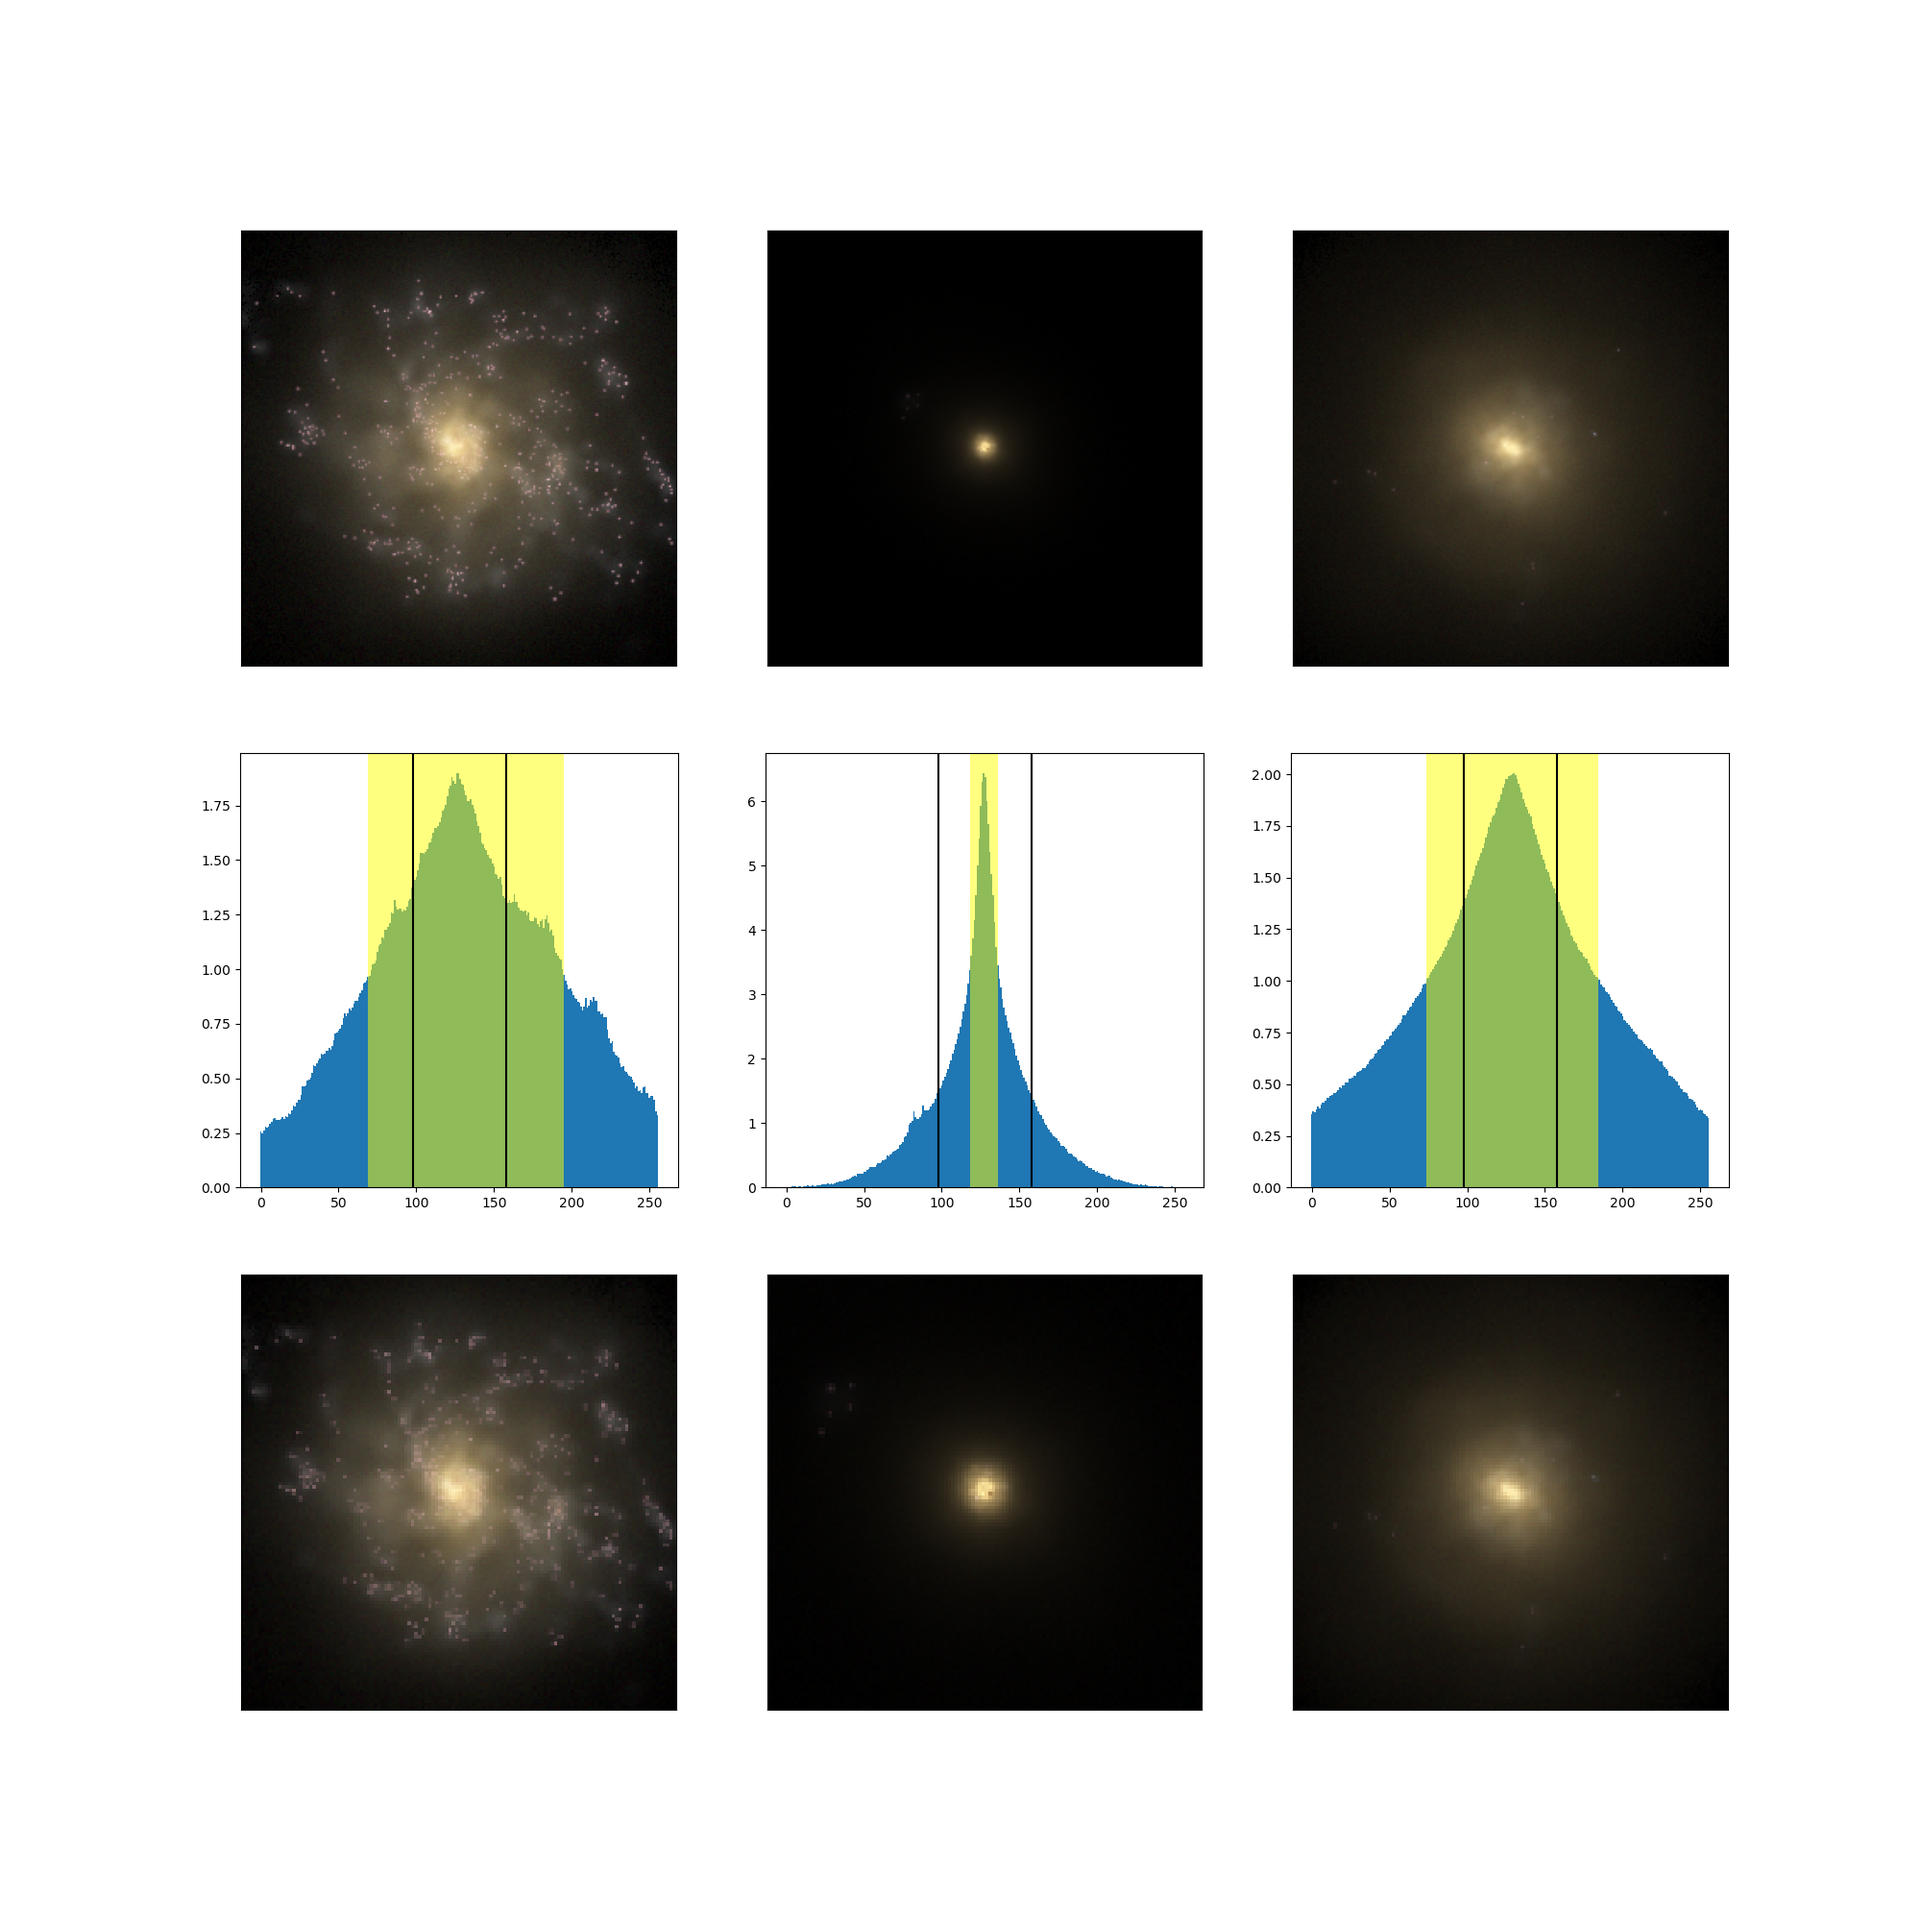
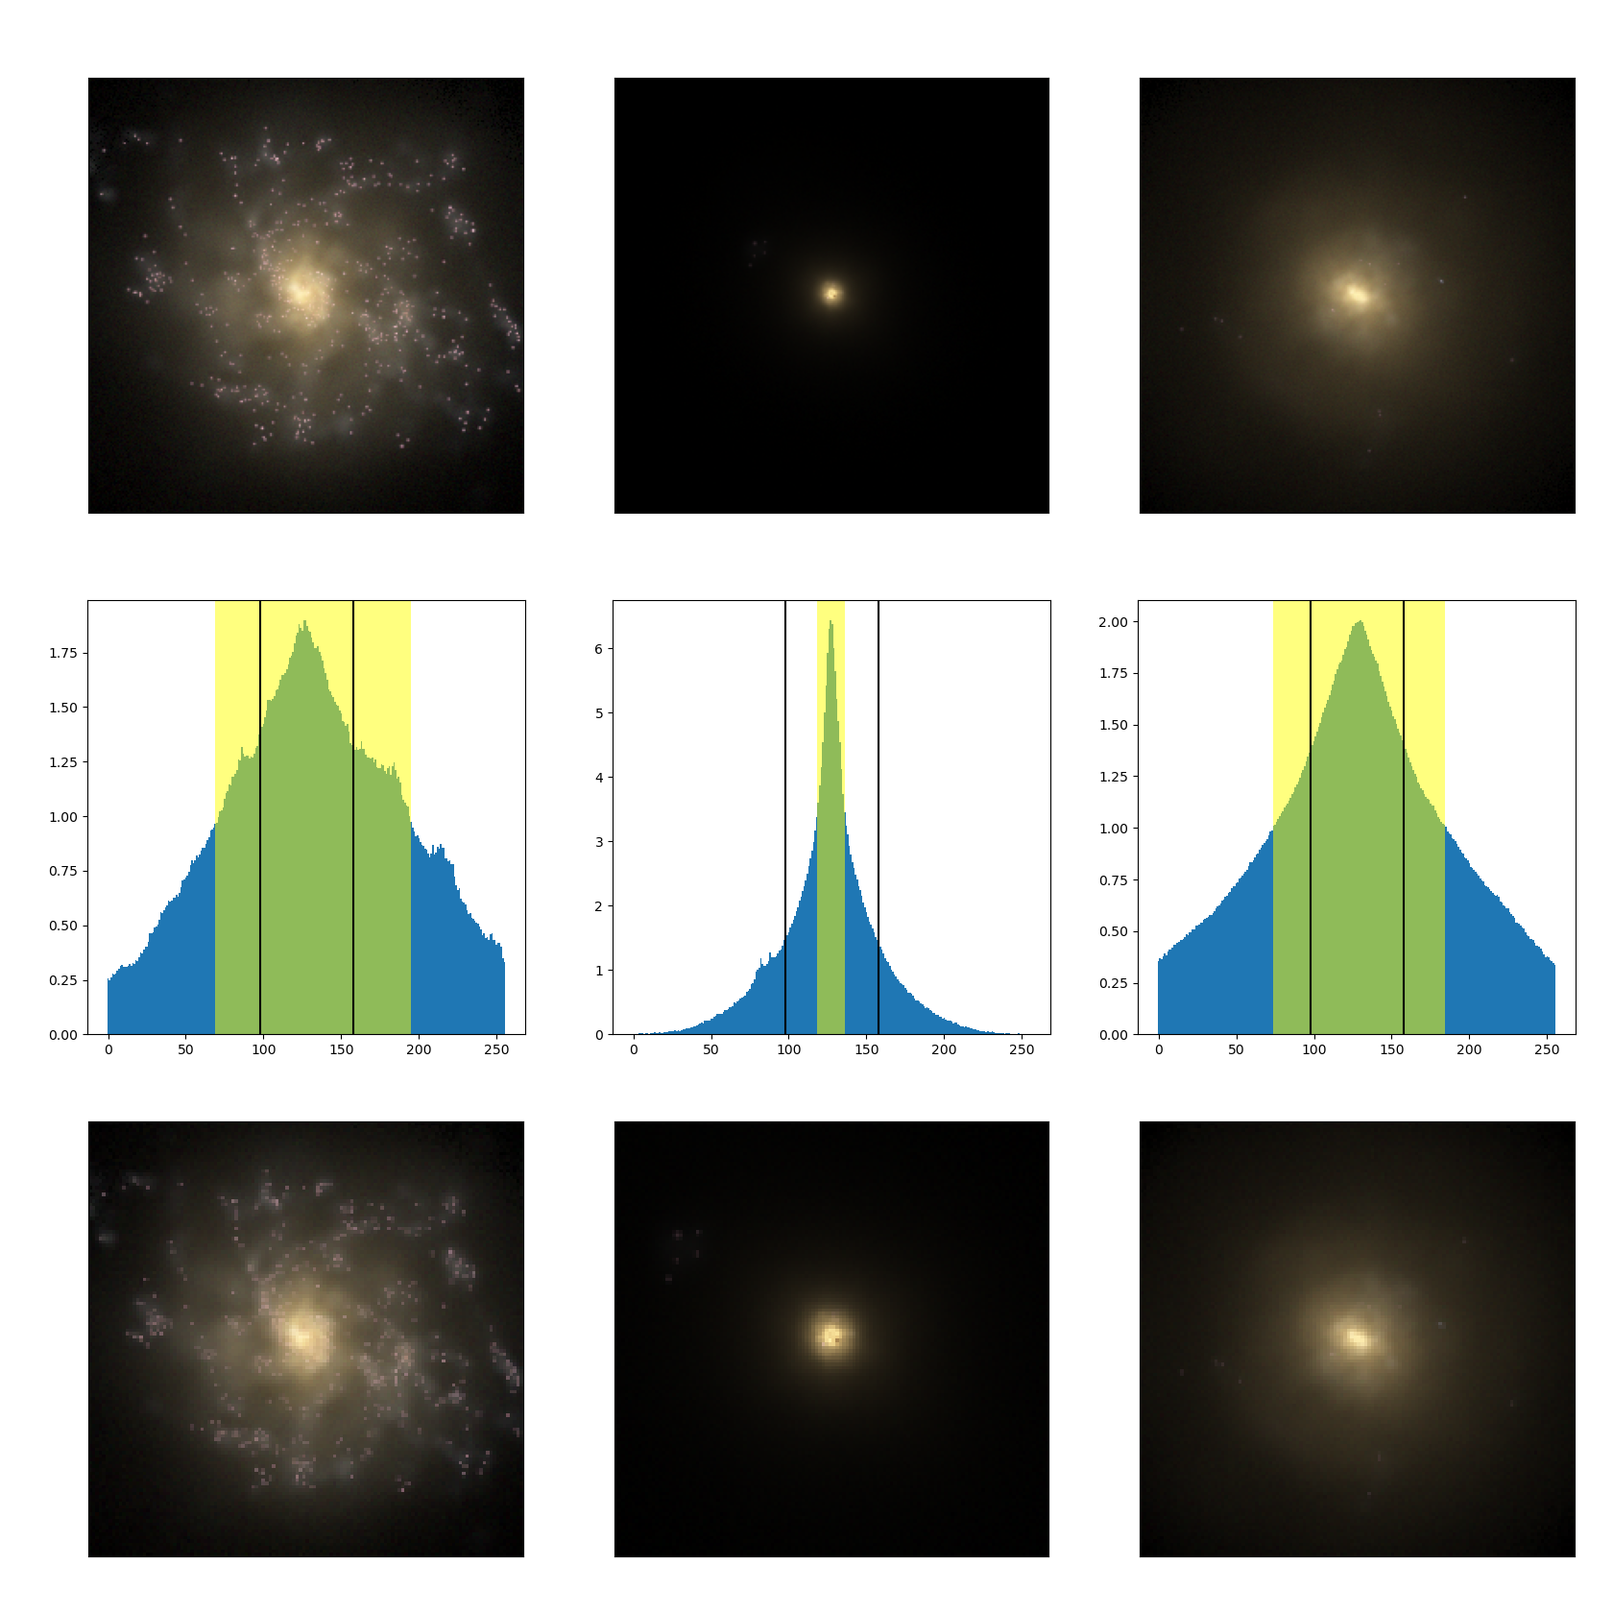
Code

diff --git a/original_images.py b/original_images.py
@@ -14,7 +14,7 @@ import cv2
 encoding_dim = 32
 
 # set the number of clusters
-n_clusters = 4
+n_clusters = 2
 
 
 # load the extracted features
@@ -44,11 +44,16 @@ def center_crop(img, dim):
 
 
 
+def half_max_range(image):
 
-def resize_image(image, cutoff,):
+    mean_intensity = image.mean()
 
     intensity_x = image.mean(axis=2).mean(axis=0)
     intensity_y = image.mean(axis=2).mean(axis=1)
+
+    half_max_intensity_x = np.max(intensity_x/mean_intensity) / 2
+    half_max_intensity_y = np.max(intensity_y/mean_intensity) / 2
+
 
     size = len(intensity_x)
 
@@ -57,49 +62,56 @@ def resize_image(image, cutoff,):
     end_x = 255
     end_y = 255
 
-    found_start_x = 0
-    found_start_y = 0
-    found_end_x = 0
-    found_end_y = 0
+    found_start_x = False
+    found_start_y = False
+    found_end_x = False
+    found_end_y = False
 
-    for j in range(0, int(size/2)):
+    # loop through half of the image
+    for j in range(0, int(size / 2)):
 
-        if (intensity_x[j] > cutoff) and (found_start_x == 0):
-            # start_x = j
-            found_start_x = 1
+
+        # if we haven't previously found the cutoff point and are still below the cutoff, increment the pointer
+        if (found_start_x is False) and ((intensity_x[j] / mean_intensity) < half_max_intensity_x):
+            start_x += 1
         else:
-            start_x = j
+            found_start_x = True
 
-        if (intensity_x[-j] > cutoff) and (found_end_x == 0):
-            # end_x = 255 - j
-            found_end_x = 1
+        if (found_end_x is False) and ((intensity_x[-j] / mean_intensity) < half_max_intensity_x):
+            end_x -= 1
         else:
-            end_x = 255 - j
+            found_end_x = True
 
-        if (intensity_y[j] > cutoff) and (found_start_y == 0):
-            # start_y = j
-            found_start_y = 1
+        if (found_start_y is False) and ((intensity_y[j] / mean_intensity) < half_max_intensity_y):
+            start_y += 1
         else:
-            start_y = j
+            found_start_y = True
 
-        if (intensity_y[-j] > cutoff) and (found_end_y == 0):
-            # end_y = 255 - j
-            found_end_y = 1
+        if (found_end_y is False) and ((intensity_y[-j] / mean_intensity) < half_max_intensity_y):
+            end_y -= 1
         else:
-            end_y = 255 - j
+            found_end_y = True
 
-    print(start_x, end_x, start_y, end_y)
+    return start_x, end_x, start_y, end_y
 
-    # check if image is too large to crop, if no we have to scale it down to 128, 128
-    if start_x < 64 and start_y < 64 and end_x > 192 and end_y > 192:
-        print("b")
+
+
+def resize_image(image, cutoff=60):
+
+    # get the fill width half maximum (for x and y direction)
+    start_x, end_x, start_y, end_y = half_max_range(image)
+
+    # calculate the full width half maximum
+    range_x = end_x - start_x
+    range_y = end_y - start_y
+
+    # check if the majority of out image is within the cutoff range, if so, center crop, otherwise, scale image down
+    if (range_x <= cutoff) and (range_y <= cutoff):
+        image = center_crop(image, (128, 128))
+    else:
         image = cv2.resize(image, (128, 128))
 
-    # if the image isn't too large, we can do a center crop
-    else:
-        print("s")
-        image = center_crop(image, (128, 128))
-
+    # return the resized image
     return image
 
 
@@ -139,89 +151,27 @@ df["Cluster"] = clusters
 
 
 
-# # separate the dataframe into groups based on their cluster
-# group_1 = df.loc[df["Cluster"] == 0]
-# group_2 = df.loc[df["Cluster"] == 1]
-#
-# # get a list of 9 random indices for each group
-# group_1_random_index = random.sample(range(0, len(group_1)), 9)
-# group_2_random_index = random.sample(range(0, len(group_2)), 9)
-#
-# # get the galaxy id of each of the random indices for each group
-# group_1_random = group_1["GalaxyID"].iloc[group_1_random_index].tolist()
-# group_2_random = group_2["GalaxyID"].iloc[group_2_random_index].tolist()
-#
-# print(group_1_random)
-# print(group_2_random)
-#
-# # create the figure for the plot
-# fig = plt.figure(constrained_layout=False, figsize=(20, 10))
-#
-# # create the subfigures for the plot (each group)
-# gs1 = fig.add_gridspec(nrows=3, ncols=3, left=0.05, right=0.45, wspace=0.05, hspace=0.05)
-# gs2 = fig.add_gridspec(nrows=3, ncols=3, left=0.55, right=0.95, wspace=0.05, hspace=0.05)
-#
-# count = 0
-#
-# for i in range(0, 3):
-#     for j in range(0, 3):
-#
-#         g1_ax = fig.add_subplot(gs1[i, j])
-#         image = mpimg.imread("/cosma7/data/Eagle/web-storage/RefL0100N1504_Subhalo/galface_" + str(group_2_random[count]) + ".png")
-#         g1_ax.imshow(image)
-#         g1_ax.get_xaxis().set_visible(False)
-#         g1_ax.get_yaxis().set_visible(False)
-#
-#         g2_ax = fig.add_subplot(gs2[i, j])
-#         image = mpimg.imread("/cosma7/data/Eagle/web-storage/RefL0100N1504_Subhalo/galface_" + str(group_1_random[count]) + ".png")
-#         g2_ax.imshow(image)
-#         g2_ax.get_xaxis().set_visible(False)
-#         g2_ax.get_yaxis().set_visible(False)
-#
-#         # set group title for middle plot of each group
-#         if i == 0 and j == 1:
-#             g1_ax.set_title(("Group 1 (" + str(np.array(group_2).shape[0]) + ")"), fontsize=25, pad=20)
-#             g2_ax.set_title(("Group 2 (" + str(np.array(group_1).shape[0]) + ")"), fontsize=25, pad=20)
-#
-#         count += 1
-
-
-
-
-
-
-
 # separate the dataframe into groups based on their cluster
 group_1 = df.loc[df["Cluster"] == 0]
 group_2 = df.loc[df["Cluster"] == 1]
-group_3 = df.loc[df["Cluster"] == 2]
-group_4 = df.loc[df["Cluster"] == 3]
 
 # get a list of 9 random indices for each group
 group_1_random_index = random.sample(range(0, len(group_1)), 9)
 group_2_random_index = random.sample(range(0, len(group_2)), 9)
-group_3_random_index = random.sample(range(0, len(group_3)), 9)
-group_4_random_index = random.sample(range(0, len(group_4)), 9)
 
 # get the galaxy id of each of the random indices for each group
 group_1_random = group_1["GalaxyID"].iloc[group_1_random_index].tolist()
 group_2_random = group_2["GalaxyID"].iloc[group_2_random_index].tolist()
-group_3_random = group_3["GalaxyID"].iloc[group_3_random_index].tolist()
-group_4_random = group_4["GalaxyID"].iloc[group_4_random_index].tolist()
 
 print(group_1_random)
 print(group_2_random)
-print(group_3_random)
-print(group_4_random)
 
-# create figure
-fig = plt.figure(constrained_layout=False, figsize=(20, 20))
+# create the figure for the plot
+fig = plt.figure(constrained_layout=False, figsize=(20, 10))
 
-# create sub figures within main figure, specify their location
-gs1 = fig.add_gridspec(nrows=3, ncols=3, left=0.05, right=0.45, wspace=0.05, hspace=0.05, top=0.95, bottom=0.55)
-gs2 = fig.add_gridspec(nrows=3, ncols=3, left=0.55, right=0.95, wspace=0.05, hspace=0.05, top=0.95, bottom=0.55)
-gs3 = fig.add_gridspec(nrows=3, ncols=3, left=0.05, right=0.45, wspace=0.05, hspace=0.05, top=0.45, bottom=0.05)
-gs4 = fig.add_gridspec(nrows=3, ncols=3, left=0.55, right=0.95, wspace=0.05, hspace=0.05, top=0.45, bottom=0.05)
+# create the subfigures for the plot (each group)
+gs1 = fig.add_gridspec(nrows=3, ncols=3, left=0.05, right=0.45, wspace=0.05, hspace=0.05)
+gs2 = fig.add_gridspec(nrows=3, ncols=3, left=0.55, right=0.95, wspace=0.05, hspace=0.05)
 
 count = 0
 
@@ -230,38 +180,100 @@ for i in range(0, 3):
 
         g1_ax = fig.add_subplot(gs1[i, j])
         image = mpimg.imread("/cosma7/data/Eagle/web-storage/RefL0100N1504_Subhalo/galface_" + str(group_2_random[count]) + ".png")
-        g1_ax.imshow(resize_image(image, 0.06))
+        g1_ax.imshow(image)
         g1_ax.get_xaxis().set_visible(False)
         g1_ax.get_yaxis().set_visible(False)
 
         g2_ax = fig.add_subplot(gs2[i, j])
-        print(".................")
-        image = mpimg.imread("/cosma7/data/Eagle/web-storage/RefL0100N1504_Subhalo/galface_" + str(group_3_random[count]) + ".png")
-        g2_ax.imshow(resize_image(image, 0.06))
+        image = mpimg.imread("/cosma7/data/Eagle/web-storage/RefL0100N1504_Subhalo/galface_" + str(group_1_random[count]) + ".png")
+        g2_ax.imshow(image)
         g2_ax.get_xaxis().set_visible(False)
         g2_ax.get_yaxis().set_visible(False)
-        print("................")
-
-        g3_ax = fig.add_subplot(gs3[i, j])
-        image = mpimg.imread("/cosma7/data/Eagle/web-storage/RefL0100N1504_Subhalo/galface_" + str(group_1_random[count]) + ".png")
-        g3_ax.imshow(resize_image(image, 0.06))
-        g3_ax.get_xaxis().set_visible(False)
-        g3_ax.get_yaxis().set_visible(False)
-
-        g4_ax = fig.add_subplot(gs4[i, j])
-        image = mpimg.imread("/cosma7/data/Eagle/web-storage/RefL0100N1504_Subhalo/galface_" + str(group_4_random[count]) + ".png")
-        g4_ax.imshow(resize_image(image, 0.06))
-        g4_ax.get_xaxis().set_visible(False)
-        g4_ax.get_yaxis().set_visible(False)
 
         # set group title for middle plot of each group
         if i == 0 and j == 1:
-            g1_ax.set_title(("Group 1-1 (" + str(np.array(group_2).shape[0]) + ")"), fontsize=30, pad=20)
-            g2_ax.set_title(("Group 2-1 (" + str(np.array(group_3).shape[0]) + ")"), fontsize=30, pad=20)
-            g3_ax.set_title(("Group 1-2 (" + str(np.array(group_1).shape[0]) + ")"), fontsize=30, pad=20)
-            g4_ax.set_title(("Group 2-2 (" + str(np.array(group_4).shape[0]) + ")"), fontsize=30, pad=20)
+            g1_ax.set_title(("Group 1 (" + str(np.array(group_2).shape[0]) + ")"), fontsize=25, pad=20)
+            g2_ax.set_title(("Group 2 (" + str(np.array(group_1).shape[0]) + ")"), fontsize=25, pad=20)
 
         count += 1
+
+
+
+
+
+
+
+# # separate the dataframe into groups based on their cluster
+# group_1 = df.loc[df["Cluster"] == 0]
+# group_2 = df.loc[df["Cluster"] == 1]
+# group_3 = df.loc[df["Cluster"] == 2]
+# group_4 = df.loc[df["Cluster"] == 3]
+#
+# # get a list of 9 random indices for each group
+# group_1_random_index = random.sample(range(0, len(group_1)), 9)
+# group_2_random_index = random.sample(range(0, len(group_2)), 9)
+# group_3_random_index = random.sample(range(0, len(group_3)), 9)
+# group_4_random_index = random.sample(range(0, len(group_4)), 9)
+#
+# # get the galaxy id of each of the random indices for each group
+# group_1_random = group_1["GalaxyID"].iloc[group_1_random_index].tolist()
+# group_2_random = group_2["GalaxyID"].iloc[group_2_random_index].tolist()
+# group_3_random = group_3["GalaxyID"].iloc[group_3_random_index].tolist()
+# group_4_random = group_4["GalaxyID"].iloc[group_4_random_index].tolist()
+#
+# print(group_1_random)
+# print(group_2_random)
+# print(group_3_random)
+# print(group_4_random)
+#
+# # create figure
+# fig = plt.figure(constrained_layout=False, figsize=(20, 20))
+#
+# # create sub figures within main figure, specify their location
+# gs1 = fig.add_gridspec(nrows=3, ncols=3, left=0.05, right=0.45, wspace=0.05, hspace=0.05, top=0.95, bottom=0.55)
+# gs2 = fig.add_gridspec(nrows=3, ncols=3, left=0.55, right=0.95, wspace=0.05, hspace=0.05, top=0.95, bottom=0.55)
+# gs3 = fig.add_gridspec(nrows=3, ncols=3, left=0.05, right=0.45, wspace=0.05, hspace=0.05, top=0.45, bottom=0.05)
+# gs4 = fig.add_gridspec(nrows=3, ncols=3, left=0.55, right=0.95, wspace=0.05, hspace=0.05, top=0.45, bottom=0.05)
+#
+# count = 0
+#
+# for i in range(0, 3):
+#     for j in range(0, 3):
+#
+#         g1_ax = fig.add_subplot(gs1[i, j])
+#         image = mpimg.imread("/cosma7/data/Eagle/web-storage/RefL0100N1504_Subhalo/galface_" + str(group_2_random[count]) + ".png")
+#         g1_ax.imshow(resize_image(image, 0.06))
+#         g1_ax.get_xaxis().set_visible(False)
+#         g1_ax.get_yaxis().set_visible(False)
+#
+#         g2_ax = fig.add_subplot(gs2[i, j])
+#         print(".................")
+#         image = mpimg.imread("/cosma7/data/Eagle/web-storage/RefL0100N1504_Subhalo/galface_" + str(group_3_random[count]) + ".png")
+#         g2_ax.imshow(resize_image(image, 0.06))
+#         g2_ax.get_xaxis().set_visible(False)
+#         g2_ax.get_yaxis().set_visible(False)
+#         print("................")
+#
+#         g3_ax = fig.add_subplot(gs3[i, j])
+#         image = mpimg.imread("/cosma7/data/Eagle/web-storage/RefL0100N1504_Subhalo/galface_" + str(group_1_random[count]) + ".png")
+#         g3_ax.imshow(resize_image(image, 0.06))
+#         g3_ax.get_xaxis().set_visible(False)
+#         g3_ax.get_yaxis().set_visible(False)
+#
+#         g4_ax = fig.add_subplot(gs4[i, j])
+#         image = mpimg.imread("/cosma7/data/Eagle/web-storage/RefL0100N1504_Subhalo/galface_" + str(group_4_random[count]) + ".png")
+#         g4_ax.imshow(resize_image(image, 0.06))
+#         g4_ax.get_xaxis().set_visible(False)
+#         g4_ax.get_yaxis().set_visible(False)
+#
+#         # set group title for middle plot of each group
+#         if i == 0 and j == 1:
+#             g1_ax.set_title(("Group 1-1 (" + str(np.array(group_2).shape[0]) + ")"), fontsize=30, pad=20)
+#             g2_ax.set_title(("Group 2-1 (" + str(np.array(group_3).shape[0]) + ")"), fontsize=30, pad=20)
+#             g3_ax.set_title(("Group 1-2 (" + str(np.array(group_1).shape[0]) + ")"), fontsize=30, pad=20)
+#             g4_ax.set_title(("Group 2-2 (" + str(np.array(group_4).shape[0]) + ")"), fontsize=30, pad=20)
+#
+#         count += 1
 
 
 
